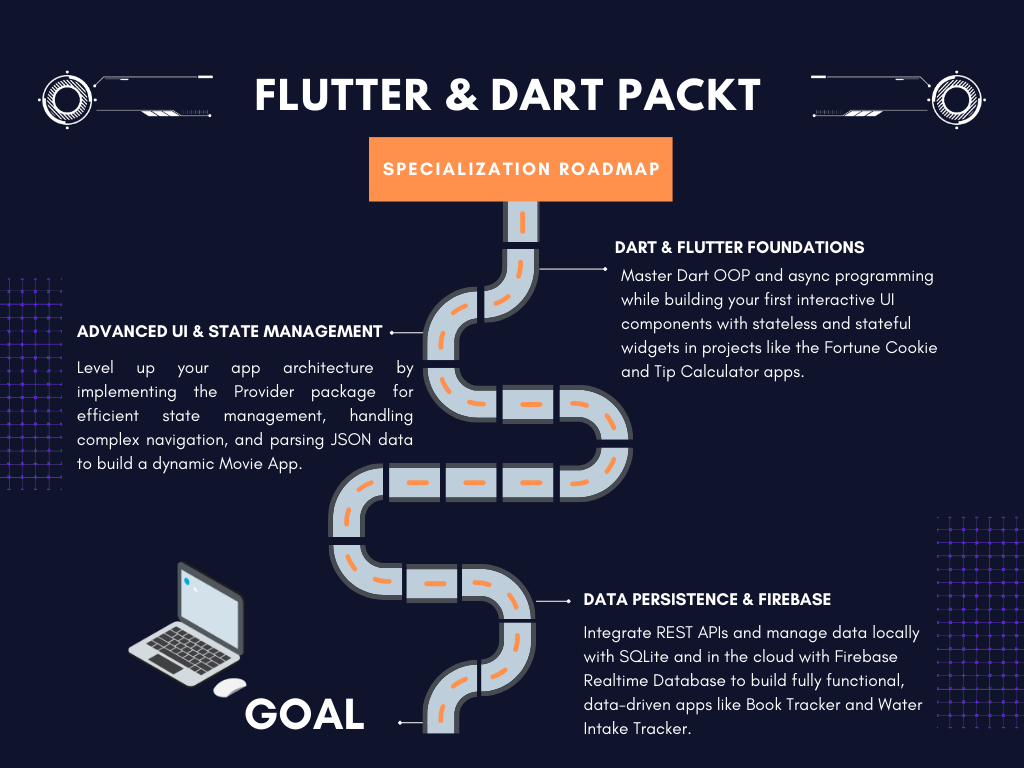
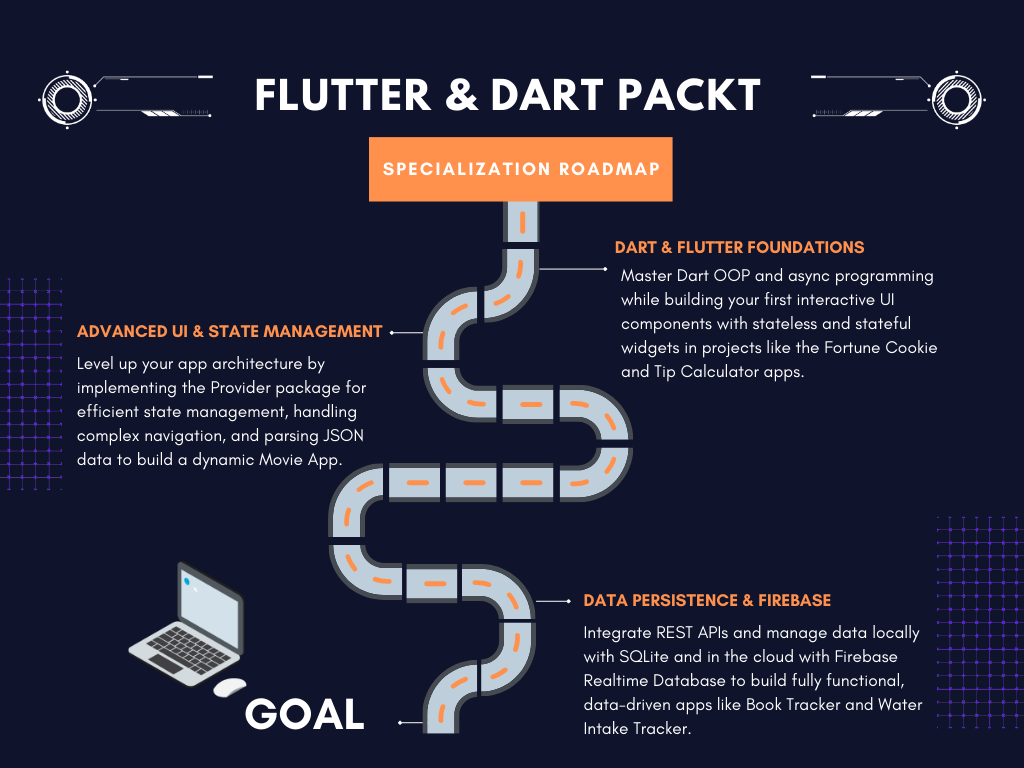
...

diff --git a/README.md b/README.md
@@ -5,11 +5,12 @@
 <img src="https://skillicons.dev/icons?i=flutter,dart,firebase,sqlite,vscode&theme=dark" alt="Core Tech Stack"/>
   </a>
 
-  <br><br>
+<br><br>
 
-  <img src="roadmap1.png" width="800" alt="Flutter & Dart Packt Specialization Roadmap"/>
+  <img src="roadmap.png" width="800" alt="Flutter & Dart Packt Specialization Roadmap"/>
 
-  <br><br>
+<br><br>
+
   <p><i>A comprehensive repository documenting my hands-on journey through the <b>"Flutter & Dart - Complete App Development"</b> Specialization by Packt on Coursera. This monorepo contains all the projects, source code, and study notes from mastering Dart OOP to full-stack Firebase integration.</i></p>
 
 </div>
@@ -21,21 +22,27 @@
 # 📚 Course Series Breakdown
 
 ### 1⃣ Phase 1: Getting Started with Flutter & Dart
+
 Focused on the core fundamentals of the Dart programming language and the Flutter framework environment.
+
 - 🎯 **Key Learnings:** Flutter environment setup, Dart basics (Variables, Functions, OOP), Asynchronous programming, Widget tree, and Stateful vs. Stateless widgets.
 - 🚀 **Projects Built:** Fortune Cookie App, Tip Calculator (V1).
 
 ---
 
 ### 2⃣ Phase 2: Advanced Flutter UI and State Management
+
 Transitioned from basic static UIs to managing complex app states and parsing external data.
+
 - 🎯 **Key Learnings:** Deep dive into the `Provider` package, dynamic theming (Dark/Light modes), JSON parsing, dynamic lists with `ListView`, complex navigation, and Dart OOP (Inheritance, Overriding).
 - 🚀 **Projects Built:** Refactored Tip Calculator (with Provider & Theming), Movie App.
 
 ---
 
 ### 3⃣ Phase 3: Data Persistence and Firebase Integration
+
 Covered local and cloud data storage, transforming static apps into persistent, dynamic applications.
+
 - 🎯 **Key Learnings:** Local storage using `SQLite`, integrating `Firebase Realtime Database` via HTTP requests, consuming RESTful APIs (Google Books API), robust exception handling, and data visualization (Bar Charts).
 - 🚀 **Projects Built:** Book Tracker App, Water Intake Tracker App.
 
@@ -82,14 +89,14 @@ Covered local and cloud data storage, transforming static apps into persistent, 
   <img src="https://img.shields.io/badge/Provider-000000?style=for-the-badge&logo=flutter&logoColor=00F0FF" alt="Provider" />
   <img src="https://img.shields.io/badge/Clean_Code_Principles-000000?style=for-the-badge&logo=codeforces&logoColor=7A5CFF" alt="Clean Code" />
 
-  <br><br>
+<br><br>
 
   <h3>🌐 Networking & Data Handling</h3>
   <img src="https://img.shields.io/badge/RESTful_APIs-000000?style=for-the-badge&logo=json&logoColor=7A5CFF" alt="REST APIs" />
   <img src="https://img.shields.io/badge/HTTP_Requests-000000?style=for-the-badge&logo=dart&logoColor=00F0FF" alt="HTTP" />
   <img src="https://img.shields.io/badge/SQLite_(Local)-000000?style=for-the-badge&logo=sqlite&logoColor=7A5CFF" alt="SQLite" />
 
-  <br><br>
+<br><br>
 
   <h3>🔥 Cloud Services & UI Tools</h3>
   <img src="https://img.shields.io/badge/Firebase_Realtime_DB-000000?style=for-the-badge&logo=firebase&logoColor=00F0FF" alt="Firebase RTDB" />
@@ -101,7 +108,6 @@ Covered local and cloud data storage, transforming static apps into persistent, 
 <br>
 <hr>
 <br>
-
 
 <h3 align="center">🤝 Let's Connect</h3>
 
